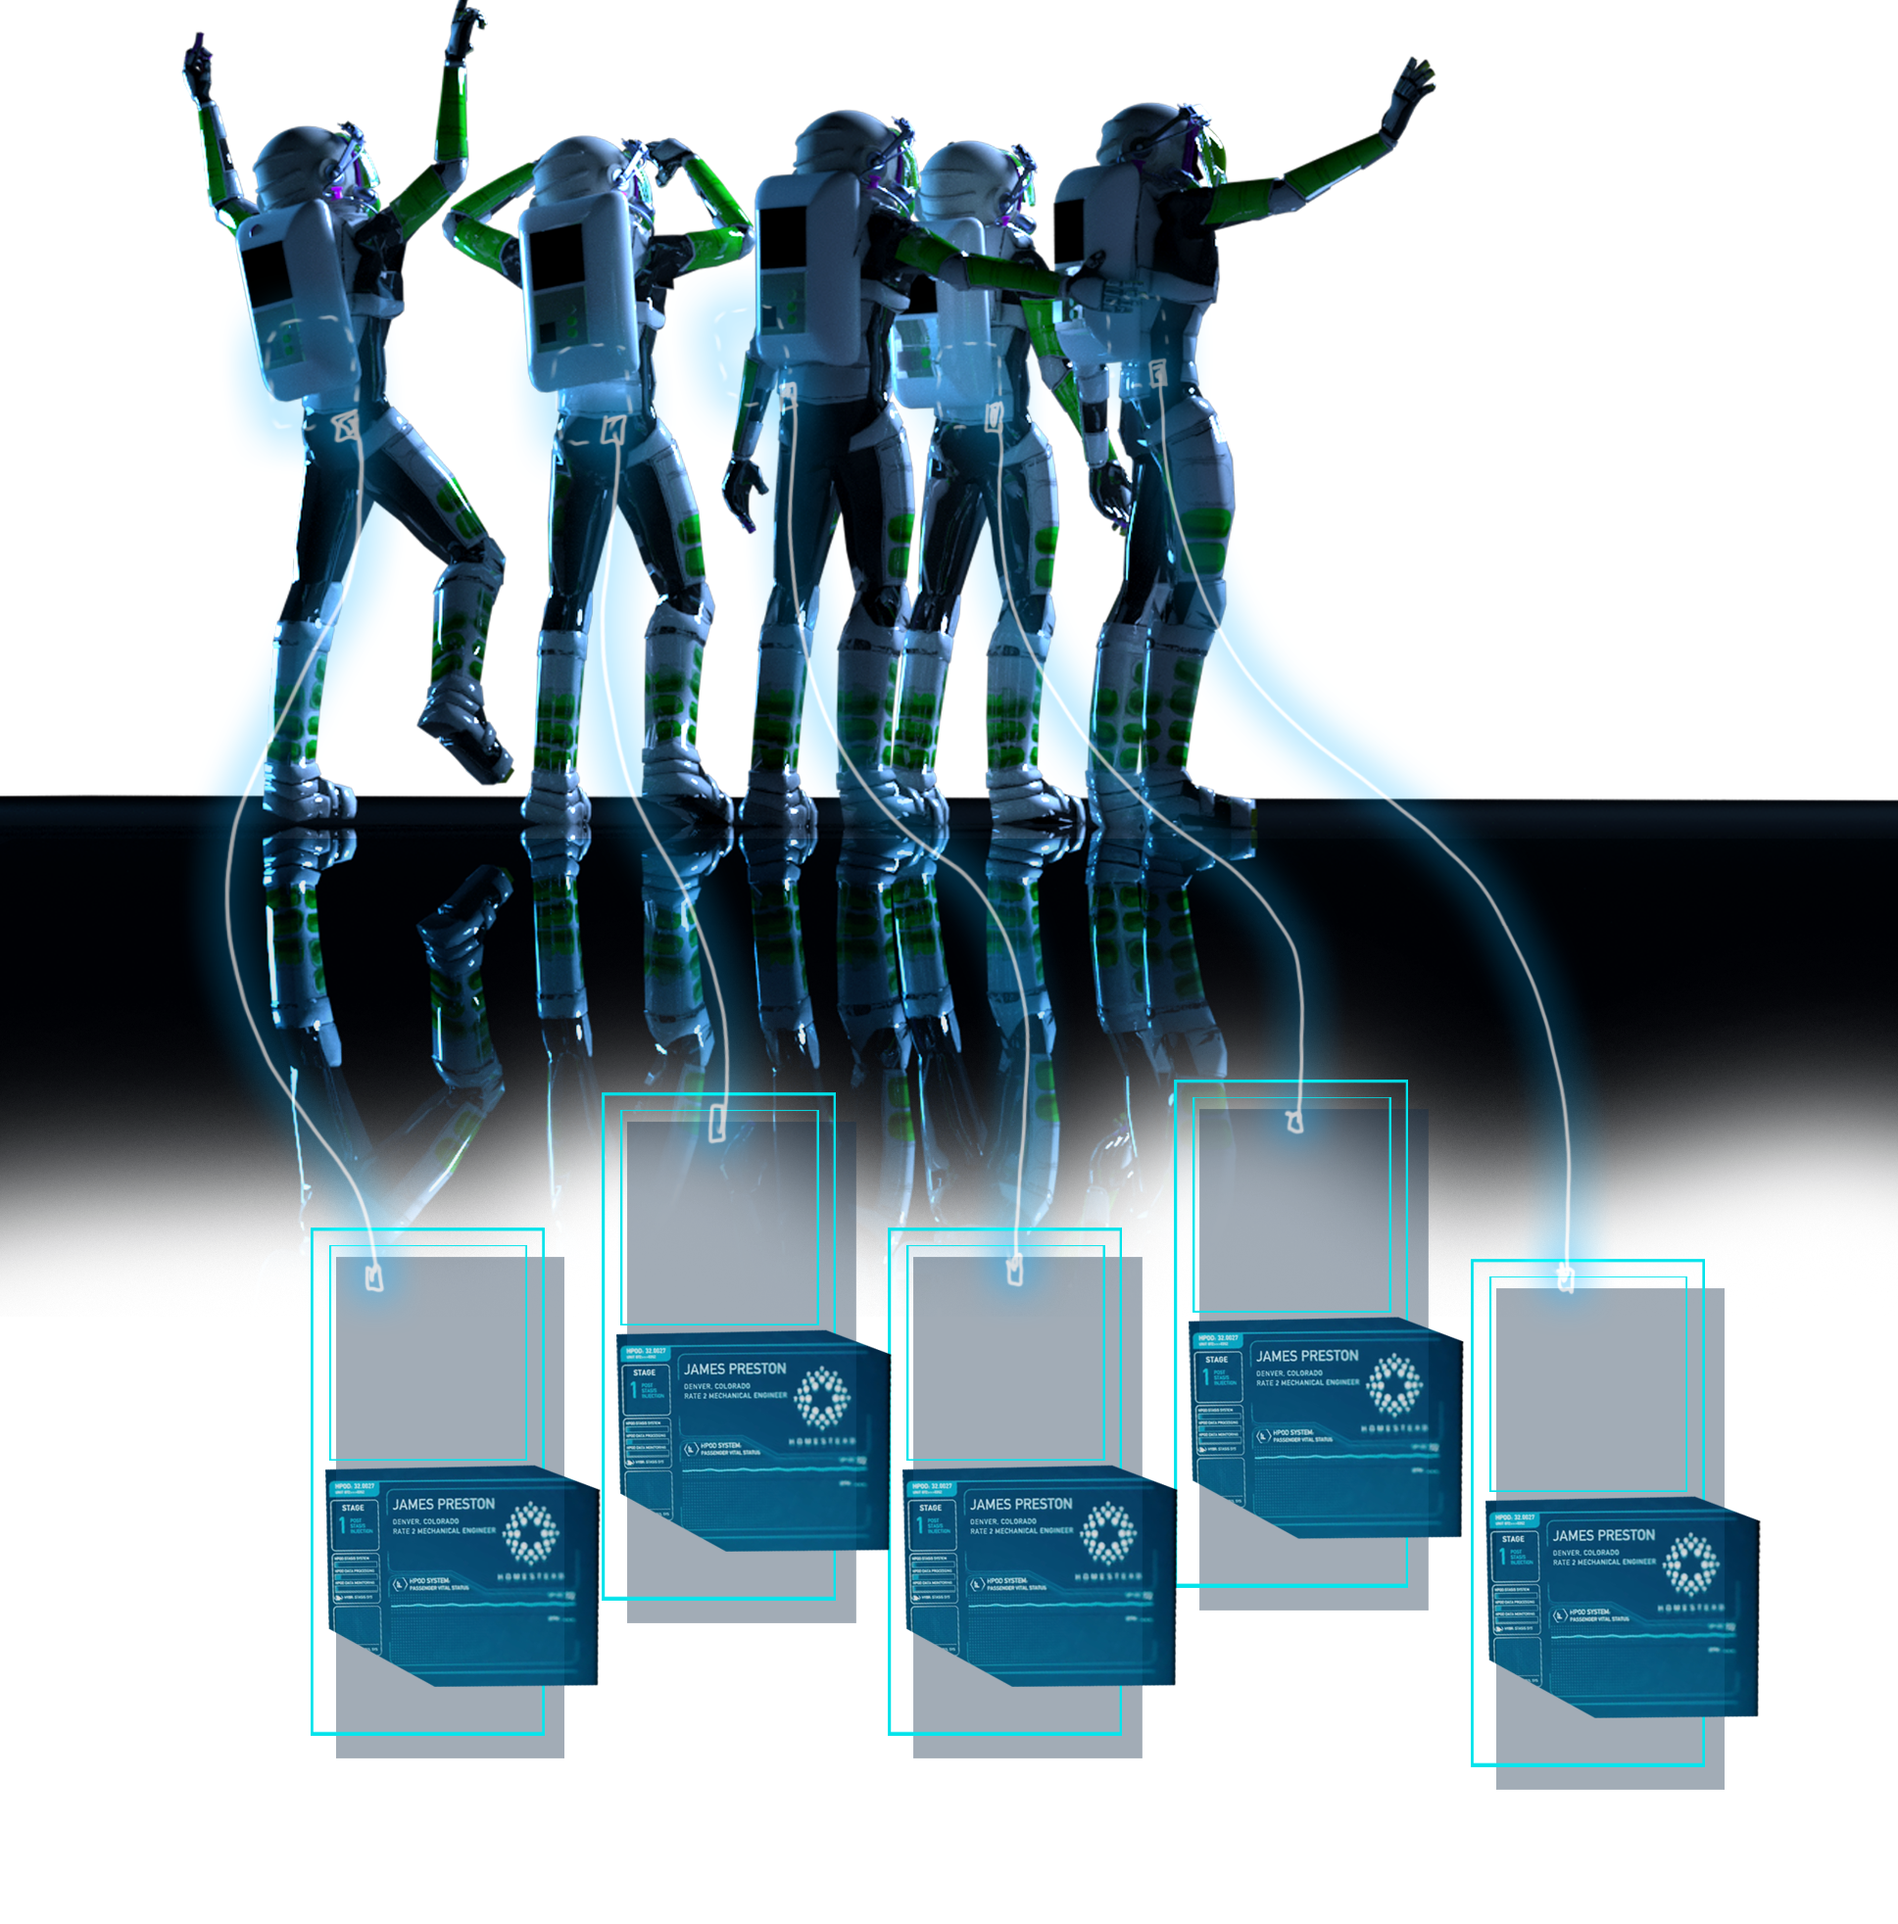
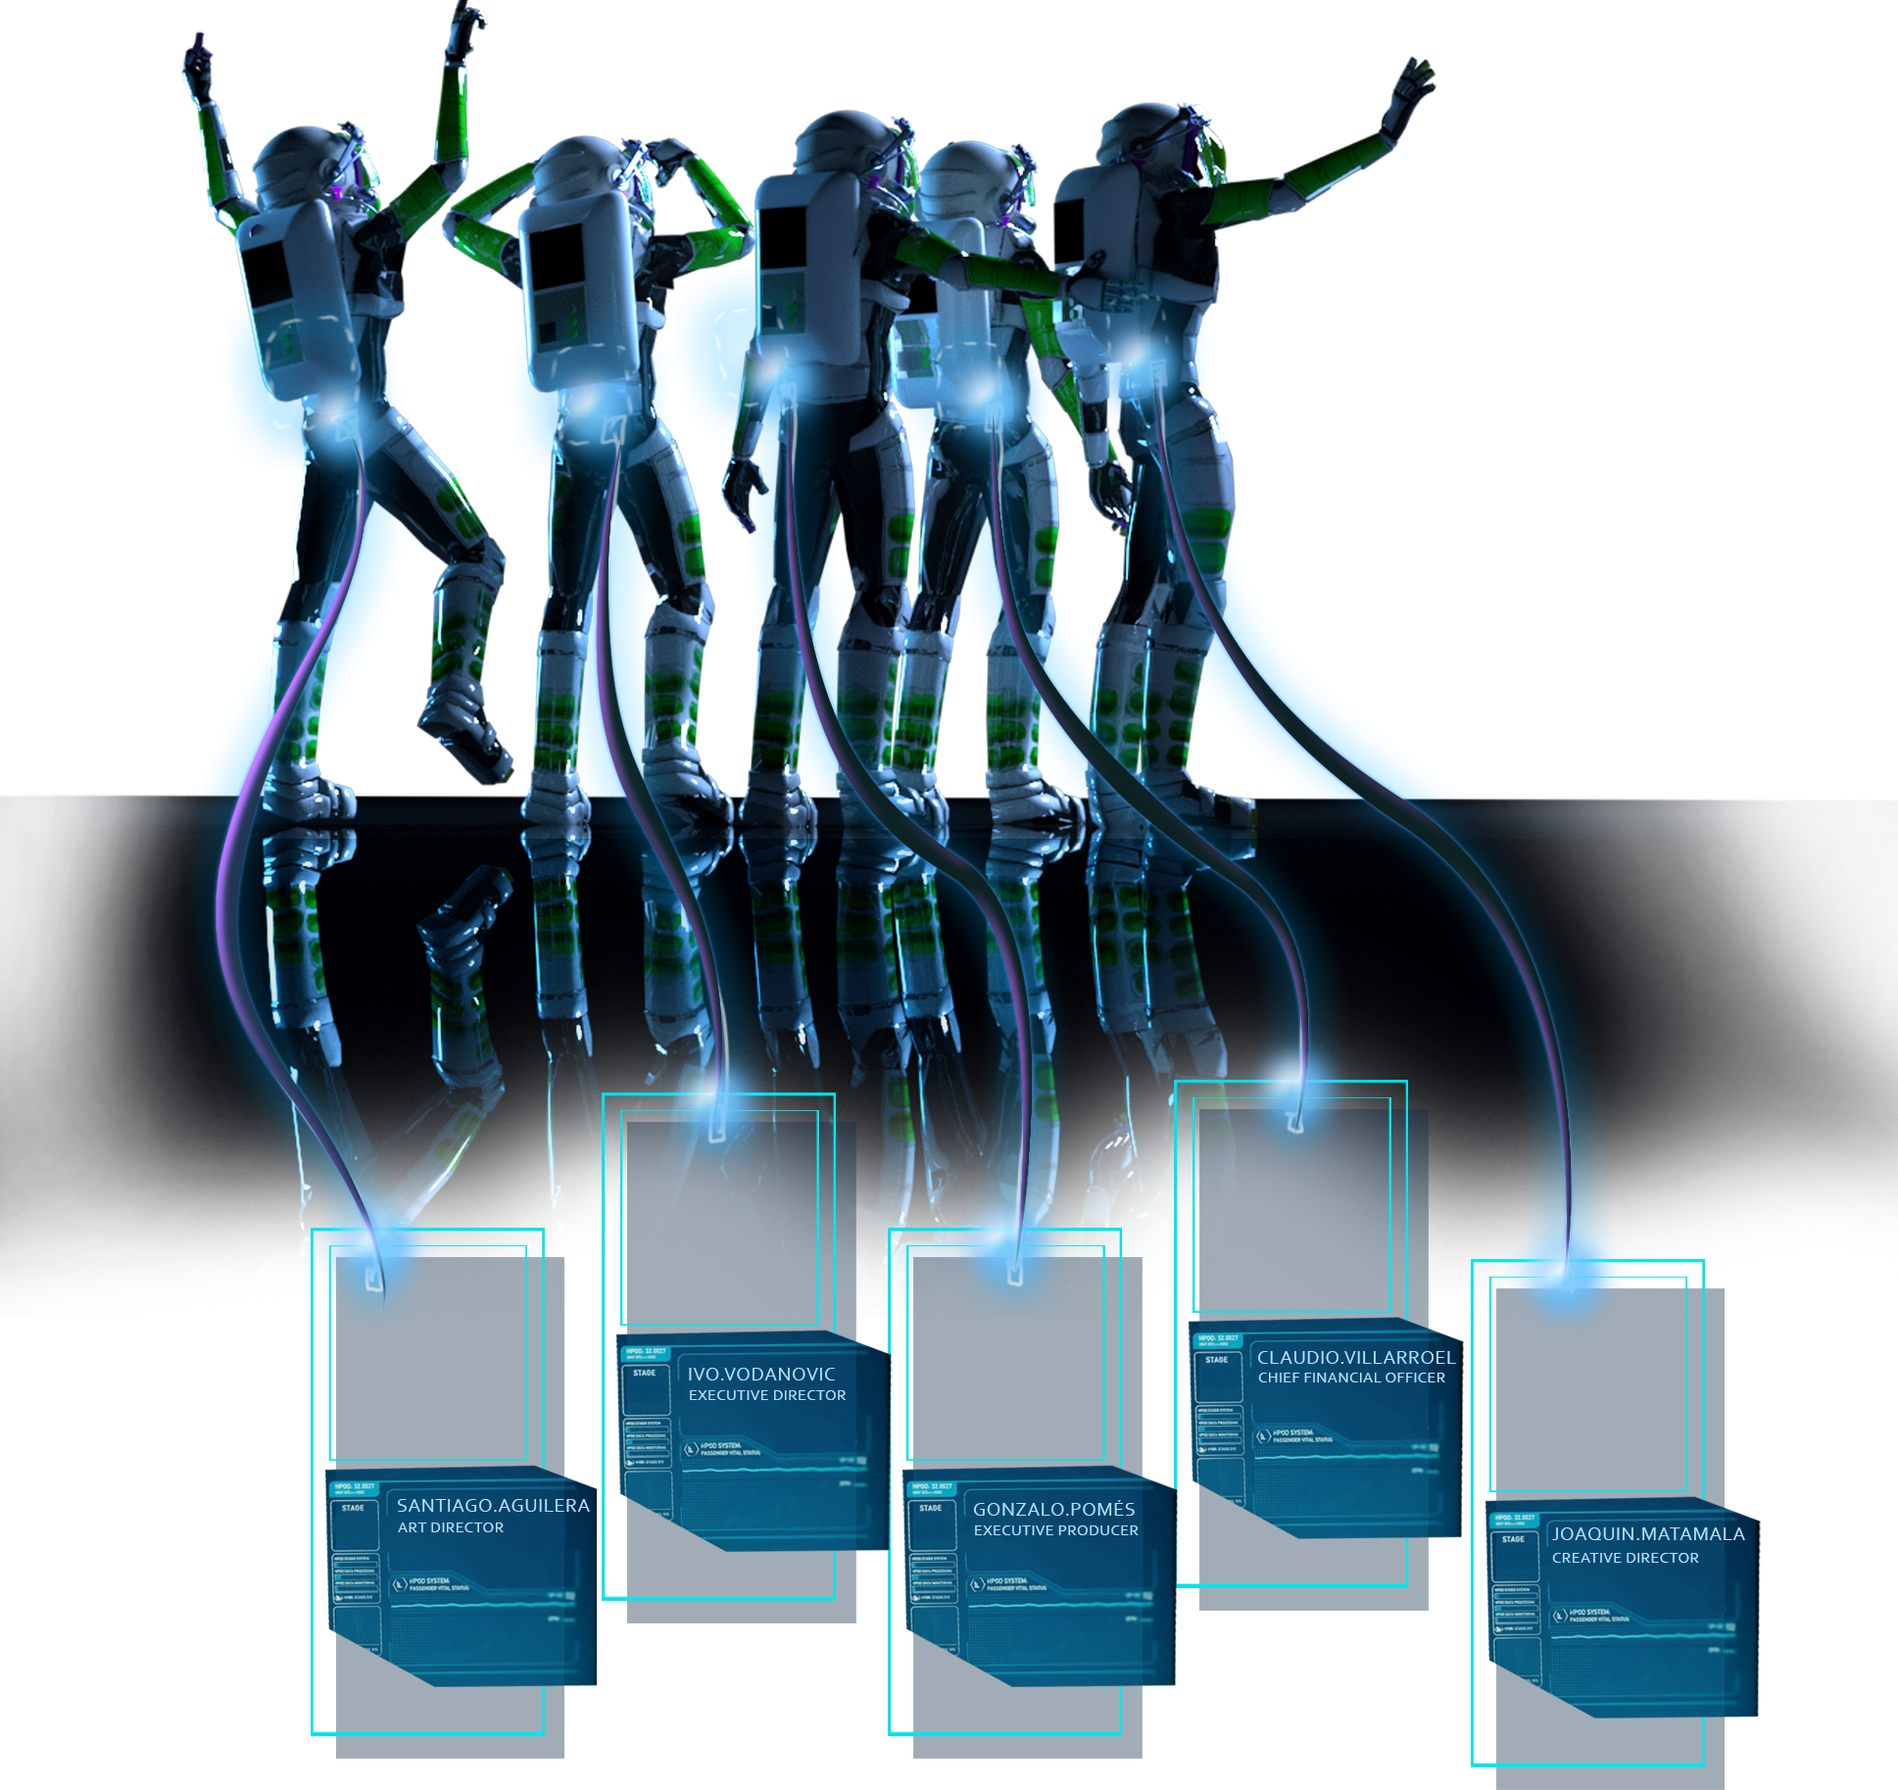
LOREM

diff --git a/src/components/Crew.tsx b/src/components/Crew.tsx
@@ -18,7 +18,39 @@ export const Crew = (frontmatter: LandingFrontmatter) => {
           />
         </Polaroid>
 
-        <StaticImage src="../images/crew.png" alt="" />
+        <div className="relative">
+          <StaticImage src="../images/crew.png" alt="" />
+
+          <StaticImage
+            className="!absolute w-[10.1%] h-[11.7%] left-[17.6%] top-[69.5%]"
+            src="../images/avatars/santiago.jpg"
+            alt=""
+          />
+
+          <StaticImage
+            className="!absolute w-[10.1%] h-[11.7%] left-[32.9%] top-[62.5%]"
+            src="../images/avatars/ivo.jpg"
+            alt=""
+          />
+
+          <StaticImage
+            className="!absolute w-[10.1%] h-[11.7%] left-[48.2%] top-[69.5%]"
+            src="../images/avatars/gonzalo.jpg"
+            alt=""
+          />
+
+          <StaticImage
+            className="!absolute w-[10.1%] h-[11.7%] left-[63%] top-[61.8%]"
+            src="../images/avatars/claudio.jpg"
+            alt=""
+          />
+
+          <StaticImage
+            className="!absolute w-[10.1%] h-[11.7%] left-[78.9%] top-[71.1%]"
+            src="../images/avatars/joaquin.jpg"
+            alt=""
+          />
+        </div>
       </div>
 
       <div className="w-full">
